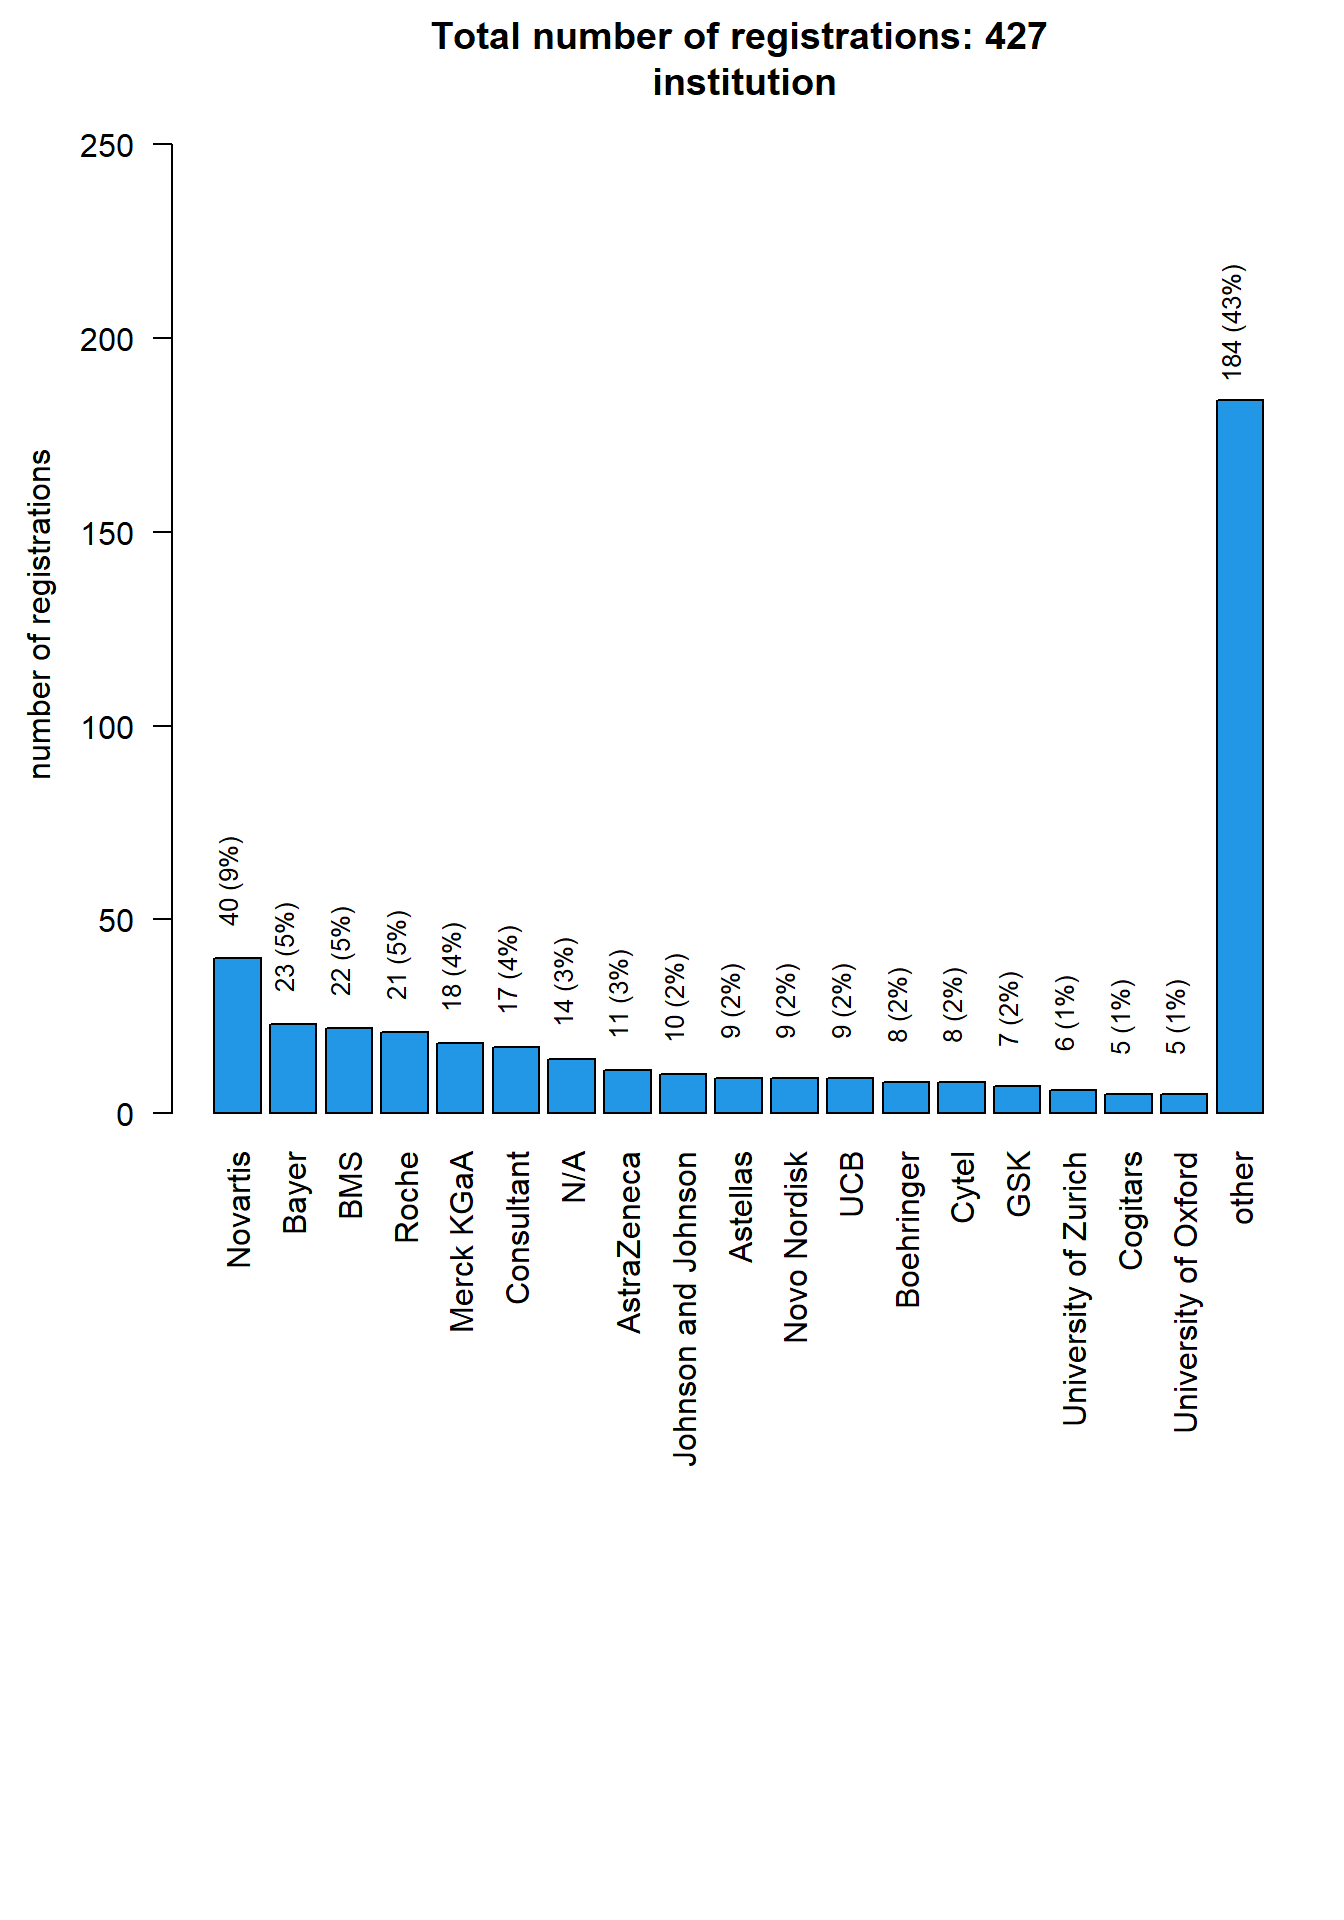
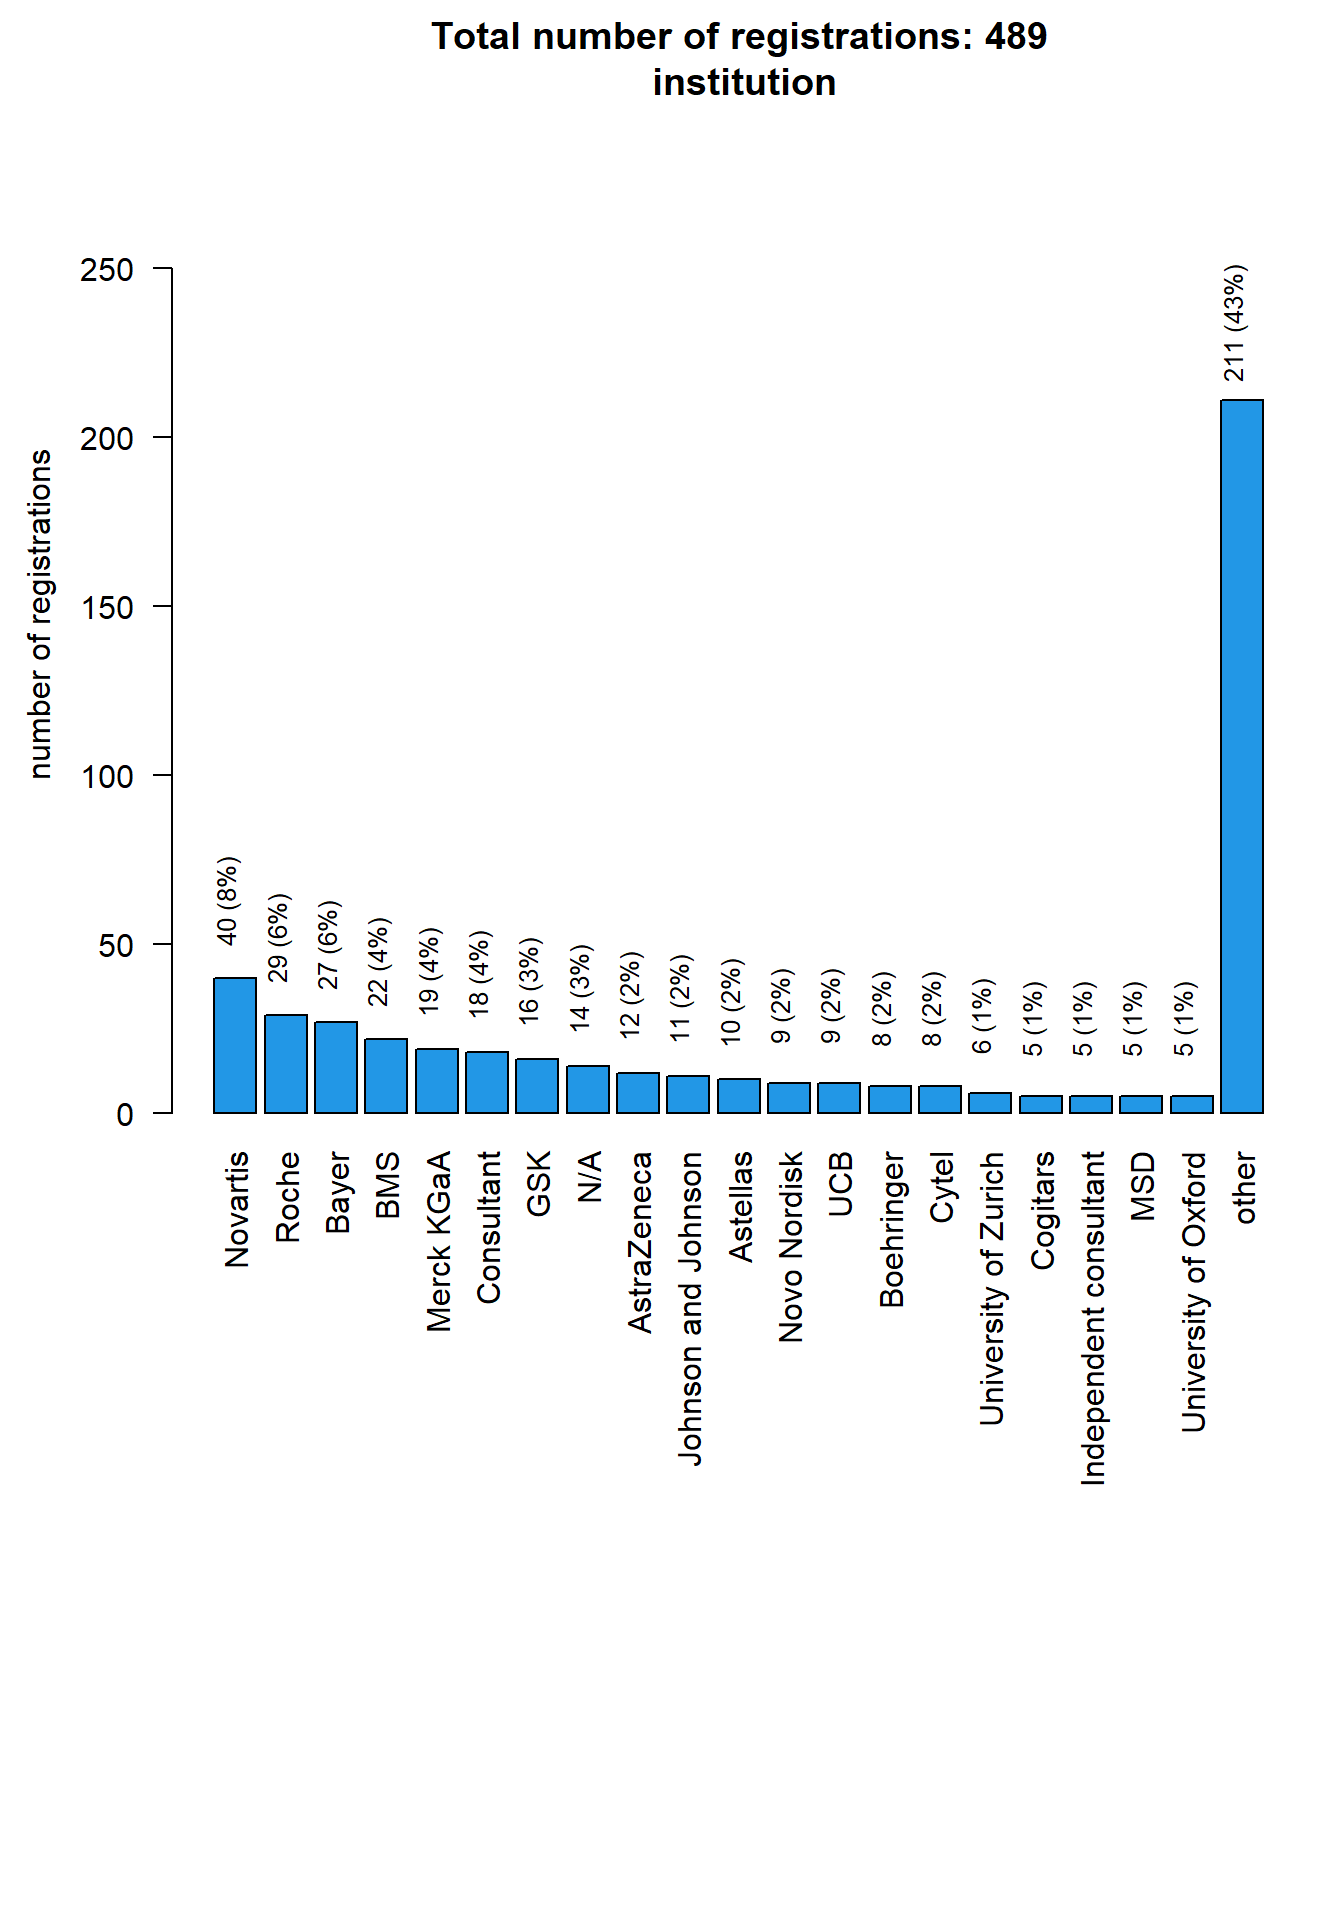
udpate

diff --git a/docs/upcoming/20261210/20261210_BBS_EFSPI_Bayes.html b/docs/upcoming/20261210/20261210_BBS_EFSPI_Bayes.html
@@ -228,7 +228,7 @@ ul.task-list li input[type="checkbox"] {
 
 <section id="data-status" class="level1">
 <h1>Data status</h1>
-<p>Data as of 2026-11-24 at 20:18:55.</p>
+<p>Data as of 2026-11-27 at 13:51:36.</p>
 </section>
 <section id="registrations" class="level1">
 <h1>Registrations</h1>
@@ -289,8 +289,8 @@ ul.task-list li input[type="checkbox"] {
 <td style="text-align: left;">Grieve</td>
 </tr>
 <tr class="odd">
-<td style="text-align: left;">Vlad</td>
-<td style="text-align: left;">Dragalin</td>
+<td style="text-align: left;">Kristin</td>
+<td style="text-align: left;">Karlsson</td>
 </tr>
 <tr class="even">
 <td style="text-align: left;">Tobias</td>
@@ -301,24 +301,20 @@ ul.task-list li input[type="checkbox"] {
 <td style="text-align: left;">Lavange</td>
 </tr>
 <tr class="even">
-<td style="text-align: left;">Kristin</td>
-<td style="text-align: left;">Karlsson</td>
+<td style="text-align: left;">Tobias</td>
+<td style="text-align: left;">Mielke</td>
 </tr>
 <tr class="odd">
 <td style="text-align: left;">Mike</td>
 <td style="text-align: left;">Krams</td>
 </tr>
 <tr class="even">
-<td style="text-align: left;">Tobias</td>
-<td style="text-align: left;">Mielke</td>
+<td style="text-align: left;">Kert</td>
+<td style="text-align: left;">Viele</td>
 </tr>
 <tr class="odd">
 <td style="text-align: left;">Kaspar</td>
 <td style="text-align: left;">Rufibach</td>
-</tr>
-<tr class="even">
-<td style="text-align: left;">Kert</td>
-<td style="text-align: left;">Viele</td>
 </tr>
 </tbody>
 </table>

diff --git a/docs/talks/20250824/analysis_ISCB.html b/docs/talks/20250824/analysis_ISCB.html
@@ -7,7 +7,7 @@
 <meta name="viewport" content="width=device-width, initial-scale=1.0, user-scalable=yes">
 
 <meta name="author" content="Kaspar Rufibach">
-<meta name="dcterms.date" content="2026-11-24">
+<meta name="dcterms.date" content="2026-11-27">
 
 <title>ISCB46 in Basel: analysis of registrations – Basel Biometrics Society</title>
 <style>
@@ -210,7 +210,7 @@ ul.task-list li input[type="checkbox"] {
     <div>
     <div class="quarto-title-meta-heading">Published</div>
     <div class="quarto-title-meta-contents">
-      <p class="date">November 24, 2026</p>
+      <p class="date">November 27, 2026</p>
     </div>
   </div>
   
@@ -224,7 +224,7 @@ ul.task-list li input[type="checkbox"] {
 
 <section id="data-status" class="level1">
 <h1>Data status</h1>
-<p>Data as of 2026-11-24 at 20:18:44.</p>
+<p>Data as of 2026-11-27 at 13:51:27.</p>
 <!-- # Registrations by institution -->
 <!-- ```{r, echo = FALSE, fig.cap = "", fig.align = "center", fig.width = 7, fig.height = 10} -->
 <!-- t2 <- with(reg4, table(inst2)) -->

diff --git a/docs/talks/20250319/analysis_innovation.html b/docs/talks/20250319/analysis_innovation.html
@@ -7,7 +7,7 @@
 <meta name="viewport" content="width=device-width, initial-scale=1.0, user-scalable=yes">
 
 <meta name="author" content="Kaspar Rufibach">
-<meta name="dcterms.date" content="2026-11-24">
+<meta name="dcterms.date" content="2026-11-27">
 
 <title>BBS seminar 19th March 2025: analysis of registrations – Basel Biometrics Society</title>
 <style>
@@ -215,7 +215,7 @@ ul.task-list li input[type="checkbox"] {
     <div>
     <div class="quarto-title-meta-heading">Published</div>
     <div class="quarto-title-meta-contents">
-      <p class="date">November 24, 2026</p>
+      <p class="date">November 27, 2026</p>
     </div>
   </div>
   
@@ -229,7 +229,7 @@ ul.task-list li input[type="checkbox"] {
 
 <section id="data-status" class="level1">
 <h1>Data status</h1>
-<p>Data as of 2026-11-24 at 20:18:32.</p>
+<p>Data as of 2026-11-27 at 13:51:16.</p>
 </section>
 <section id="registrations-by-type-of-institution" class="level1">
 <h1>Registrations by type of institution</h1>

diff --git a/docs/talks/20250319/analysis_innovation_questions.html b/docs/talks/20250319/analysis_innovation_questions.html
@@ -7,7 +7,7 @@
 <meta name="viewport" content="width=device-width, initial-scale=1.0, user-scalable=yes">
 
 <meta name="author" content="Kaspar Rufibach">
-<meta name="dcterms.date" content="2026-11-24">
+<meta name="dcterms.date" content="2026-11-27">
 
 <title>BBS seminar 19th March 2025: analysis of questions – Basel Biometrics Society</title>
 <style>
@@ -209,7 +209,7 @@ ul.task-list li input[type="checkbox"] {
     <div>
     <div class="quarto-title-meta-heading">Published</div>
     <div class="quarto-title-meta-contents">
-      <p class="date">November 24, 2026</p>
+      <p class="date">November 27, 2026</p>
     </div>
   </div>
   
@@ -223,7 +223,7 @@ ul.task-list li input[type="checkbox"] {
 
 <section id="data-status" class="level1">
 <h1>Data status</h1>
-<p>Data as of 2026-11-24 at 20:18:41.</p>
+<p>Data as of 2026-11-27 at 13:51:24.</p>
 </section>
 <section id="analysis-of-registrations" class="level1">
 <h1>Analysis of registrations</h1>

diff --git a/docs/talks/20191101/20191101_summary.html b/docs/talks/20191101/20191101_summary.html
@@ -7,7 +7,7 @@
 <meta name="viewport" content="width=device-width, initial-scale=1.0, user-scalable=yes">
 
 <meta name="author" content="Laurent Essioux, Dominik Heinzmann, Kaspar Rufibach, Marcel Wolbers">
-<meta name="dcterms.date" content="2026-11-24">
+<meta name="dcterms.date" content="2026-11-27">
 
 <title>BBS seminar 1st November 2019: Predictive modelling, machine learning, and causality – Basel Biometrics Society</title>
 <style>
@@ -248,7 +248,7 @@ window.Quarto = {
     <div>
     <div class="quarto-title-meta-heading">Published</div>
     <div class="quarto-title-meta-contents">
-      <p class="date">November 24, 2026</p>
+      <p class="date">November 27, 2026</p>
     </div>
   </div>
   
